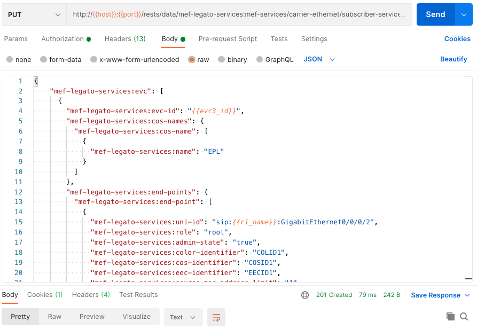
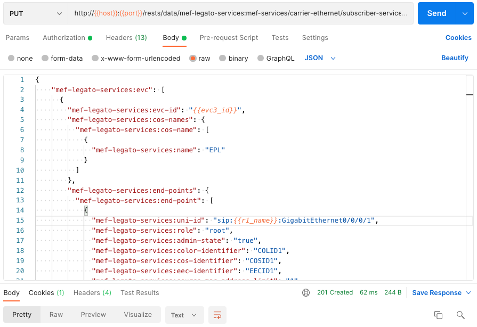
add OSPF and MPLS

diff --git a/README.md b/README.md
@@ -2,7 +2,7 @@
 
 ## Background
 
-A team from Xoriant, Cisco, and Amartus has been working with Ethernet Virtual Connection (EVC) based Ethernet Services based on the Lifecycle Service Orchestration (LSO) architecture defined by MEF Forum (MEF). The implementation of these services has been done within the OpenDaylight UniMgr open source project. These EVC services are offered by service providers to their clients. There are six EVC services standardized by MEF, namely Ethernet Private Line (EPL), Ethernet Virtual Private Line (EVPL), Ethernet Private LAN (EP-LAN), Ethernet Virtual Private LAN (EVP-LAN), Ethernet Private Tree (EP-Tree), and Ethernet Virtual Private Tree (EVP-Tree).
+A team from Xoriant, Cisco, and Amartus has been working with Ethernet Virtual Connection (EVC) based Ethernet Services based on the Lifecycle Service Orchestration (LSO) architecture defined by MEF Forum (MEF). The implementation of these services has been done within the OpenDaylight UniMgr open source project. These EVC services are offered by service providers to their subscribers. There are six EVC services standardized by MEF, namely Ethernet Private Line (EPL), Ethernet Virtual Private Line (EVPL), Ethernet Private LAN (EP-LAN), Ethernet Virtual Private LAN (EVP-LAN), Ethernet Private Tree (EP-Tree), and Ethernet Virtual Private Tree (EVP-Tree).
 
 Here is a brief explanation of these services. Please also refer to [MEF 6.3](https://www.mef.net/resources/mef-6-3-subscriber-ethernet-service-definitions/), [MEF 55.1](https://www.mef.net/resources/mef-55-1-lifecycle-service-orchestration-lso-reference-architecture-and-framework/), and [MEF 10.4](https://www.mef.net/resources/mef-10-4-subscriber-ethernet-services-attributes/) for additional information and the formal definition of each service.
 
@@ -59,9 +59,7 @@ $ mvn clean install
 
 ### Step 3: After a successful build, start unimgr
 
-The unimgr project builds a karaf distribution that has the umimgr component as a deployed
-feature. It is necessary to set a higher than default maximum heap size for the JVM when running
-karaf.
+The UniMgr project builds a Karaf distribution that has the `umimgr` component as a deployed feature. It is necessary to set a higher than default maximum heap size for the JVM when running Karaf.
 
 ```
 $ export JAVA_MAX_MEM=2g
@@ -84,14 +82,13 @@ opendaylight-user@root>feature:install odl-unimgr-cisco-xr-driver
 
 You can verify that OpenDaylight is running on your system with the UniMgr driver for Cisco XR devices installed and the UniMgr Legato API enabled by accessing the network topology API:
 
-<http://localhost:8181/rests/data/network-topology?content=nonconfig> (username: admin/ password: admin)
+<http://localhost:8181/rests/data/network-topology?content=nonconfig> (username: admin / password: admin)
 
 ![Network Topology](./images/network-topology.png)
 
 ### Step 6: Access your Cisco IOS XR devices
 
-The remainder of this tutorial assumes you are using the devices in the CiscoDevNet Sandbox for IOS XR Programmability and have established the VPN required to access the devices.
-If you are using your own devices, you will need to update the access information accordingly.
+The remainder of this tutorial assumes you are using the devices in the CiscoDevNet Sandbox for IOS XR Programmability and have established the VPN required to access the devices. If you are using your own devices, you will need to update the access information accordingly.
 
 In one terminal, access R1
 
@@ -109,57 +106,132 @@ Password: admin
 Show the interfaces and l2vpn configuration prior to configuring anything on the devices.
 
 ```
-$ show running-configuration interface
-$ show running-configuration l2vpn
+#show running-configuration interface
+#show running-configuration l2vpn
 ```
 
 ![Initial Configuration](./images/r1-r2-initial.png)
 
 ### Step 7: Configure network interfaces on XR devices
 
-On R1, configure a loopback interface and enable Gigabit Ethernet 0/0/0/2 as follows:
+The XR devices in the sandbox are connected back-to-back. We want to use these to demonstrate an EPL service offered by a service provider to a subscriber. To achieve this, we define Loopback0 on R1 and R2, use Gigabit Ethernet 0/0/0/0 on R1 and R2 to run OSPF and MPLS, reserve Gigabit Ethernet 0/0/0/1 on R1 and Gigabit Ethernet 0/0/0/2 on R2 to serve as UNIs for the EPL service, and shutdown all other interfaces.
+
+![Interfaces on R1 and R2](./images/r1-r2-interfaces.png)
+
+On R1, configure the interfaces as follows:
 
 ```
-RP/0/RP0/CPU0:r1#conf t              
-RP/0/RP0/CPU0:r1(config)#interface gigabitEthernet 0/0/0/2   
-RP/0/RP0/CPU0:r1(config-if)#no shutdown 
-RP/0/RP0/CPU0:r1(config-if)#commit
+RP/0/RP0/CPU0:r1#conf t 
 RP/0/RP0/CPU0:r1(config)#interface loopback0
 RP/0/RP0/CPU0:r1(config-if)#ipv4 address 100.100.100.100 255.255.255.255
+RP/0/RP0/CPU0:r1(config-if)#exit
+RP/0/RP0/CPU0:r1(config)#interface gigabitEthernet 0/0/0/0
+RP/0/RP0/CPU0:r1(config-if)#ipv4 address 10.20.20.1 255.255.255.0  
+RP/0/RP0/CPU0:r1(config-if)#no shutdown
+RP/0/RP0/CPU0:r1(config-if)#exit
+RP/0/RP0/CPU0:r1(config)#interface gigabitEthernet 0/0/0/1
+RP/0/RP0/CPU0:r1(config-if)#no shutdown
+RP/0/RP0/CPU0:r1(config-if)#exit
+RP/0/RP0/CPU0:r1(config)#interface gigabitEthernet 0/0/0/2
+RP/0/RP0/CPU0:r1(config-if)#shutdown
+RP/0/RP0/CPU0:r1(config-if)#exit
+RP/0/RP0/CPU0:r1(config)#interface gigabitEthernet 0/0/0/3
+RP/0/RP0/CPU0:r1(config-if)#shutdown
+RP/0/RP0/CPU0:r1(config-if)#exit
+RP/0/RP0/CPU0:r1(config)#interface gigabitEthernet 0/0/0/4
+RP/0/RP0/CPU0:r1(config-if)#shutdown
 RP/0/RP0/CPU0:r1(config-if)#commit
-RP/0/RP0/CPU0:r1(config-if)#end          
+RP/0/RP0/CPU0:r1(config-if)#end     
 ```
-On R2, configure a loopback interface and enable Gigabit Ethernet 0/0/0/2 as follows:
+On R2, configure the interfaces as follows:
 
 ```
-RP/0/RP0/CPU0:r2#conf t
-RP/0/RP0/CPU0:r2(config)#interface gigabitEthernet 0/0/0/2
-RP/0/RP0/CPU0:r2(config-if)#no shutdown 
-RP/0/RP0/CPU0:r2(config-if)#commit
-RP/0/RP0/CPU0:r2(config-if)#interface loopback0
+RP/0/RP0/CPU0:r2#conf t 
+RP/0/RP0/CPU0:r2(config)#interface loopback0
 RP/0/RP0/CPU0:r2(config-if)#ipv4 address 200.200.200.200 255.255.255.255
+RP/0/RP0/CPU0:r2(config-if)#exit
+RP/0/RP0/CPU0:r2(config)#interface gigabitEthernet 0/0/0/0
+RP/0/RP0/CPU0:r2(config-if)#ipv4 address 10.20.20.2 255.255.255.0  
+RP/0/RP0/CPU0:r2(config-if)#no shutdown
+RP/0/RP0/CPU0:r2(config-if)#exit
+RP/0/RP0/CPU0:r2(config)#interface gigabitEthernet 0/0/0/1
+RP/0/RP0/CPU0:r2(config-if)#shutdown
+RP/0/RP0/CPU0:r2(config-if)#exit
+RP/0/RP0/CPU0:r2(config)#interface gigabitEthernet 0/0/0/2
+RP/0/RP0/CPU0:r2(config-if)#no shutdown
+RP/0/RP0/CPU0:r2(config-if)#exit
+RP/0/RP0/CPU0:r2(config)#interface gigabitEthernet 0/0/0/3
+RP/0/RP0/CPU0:r2(config-if)#shutdown
+RP/0/RP0/CPU0:r2(config-if)#exit
+RP/0/RP0/CPU0:r2(config)#interface gigabitEthernet 0/0/0/4
+RP/0/RP0/CPU0:r2(config-if)#shutdown
 RP/0/RP0/CPU0:r2(config-if)#commit
 RP/0/RP0/CPU0:r2(config-if)#end
 ```
 
-Show the interfaces and l2vpn configuration after completing this configuration on the devices.
+Verify the interfaces after completing this configuration on R1 and R2.
 
 ```
-$ show running-configuration interface
-$ show running-configuration l2vpn
+#show ip int br
 ```
 
-![Loopback Interface Configuration](./images/r1-r2-loopback.png)
+![Loopback Interface Configuration](./images/r1-interface-config.png)
 
-Note, you will no longer see anything for GigabitEthernet 0/0/0/2 because its configuration is empty/default. You can verify the status of all the interfaces as follows:
+![Loopback Interface Configuration](./images/r2-interface-config.png)
+
+### Step 8: Configure OSPF and MPLS on R1 and R2
+
+On R1, configure OSPF and MPLS as follows:
 
 ```
-$ show interfaces brief
+RP/0/RP0/CPU0:r1#conf t 
+RP/0/RP0/CPU0:r1(config)#router ospf 1
+RP/0/RP0/CPU0:r1(config-ospf)#router-id 100.100.100.100
+RP/0/RP0/CPU0:r1(config-ospf)#area 0
+RP/0/RP0/CPU0:r1(config-ospf-ar)#interface loopback0
+RP/0/RP0/CPU0:r1(config-ospf-ar-if)#exit
+RP/0/RP0/CPU0:r1(config-ospf-ar)#interface gigabitEthernet 0/0/0/0
+RP/0/RP0/CPU0:r1(config-ospf-ar-if)#commit
+RP/0/RP0/CPU0:r1(config-ospf-ar-if)#end
+RP/0/RP0/CPU0:r1#conf t
+RP/0/RP0/CPU0:r1(config)#mpls ldp 
+RP/0/RP0/CPU0:r1(config-ldp)#router-id 100.100.100.100
+RP/0/RP0/CPU0:r1(config-ldp)#interface gigabitEthernet 0/0/0/0
+RP/0/RP0/CPU0:r1(config-ldp-if)#commit
+RP/0/RP0/CPU0:r1(config-ldp-if)#end
 ```
 
-![show interface brief](./images/show-interface-brief.png)
+On R2, configure OSPF and MPLS as follows:
 
-### Step 8: Connect to R1 and R2 using OpenDaylight’s RESTCONF API, per RFC 8040
+```
+RP/0/RP0/CPU0:r2#conf t 
+RP/0/RP0/CPU0:r2(config)#router ospf 1
+RP/0/RP0/CPU0:r2(config-ospf)#router-id 200.200.200.200
+RP/0/RP0/CPU0:r2(config-ospf)#area 0
+RP/0/RP0/CPU0:r2(config-ospf-ar)#interface loopback0
+RP/0/RP0/CPU0:r2(config-ospf-ar-if)#exit
+RP/0/RP0/CPU0:r2(config-ospf-ar)#interface gigabitEthernet 0/0/0/0
+RP/0/RP0/CPU0:r2(config-ospf-ar-if)#commit
+RP/0/RP0/CPU0:r2(config-ospf-ar-if)#end
+RP/0/RP0/CPU0:r2#conf t
+RP/0/RP0/CPU0:r2(config)#mpls ldp 
+RP/0/RP0/CPU0:r2(config-ldp)#router-id 200.200.200.200
+RP/0/RP0/CPU0:r2(config-ldp)#interface gigabitEthernet 0/0/0/0
+RP/0/RP0/CPU0:r2(config-ldp-if)#commit
+RP/0/RP0/CPU0:r2(config-ldp-if)#end
+```
+
+Verify the OSPF and MPLS configuration on R1 and R2.
+
+```
+#show running-configuration router ospf
+#show running-configuration mpls ldp
+```
+
+![OSPF and MPLS Configuration](./images/ospf-mpls.png)
+
+
+### Step 8: Connect to R1 and R2 using OpenDaylight’s RESTCONF API, per [RFC 8040](https://www.rfc-editor.org/info/rfc8040)
 
 All API calls are available as part of the Postman [environment](unimgr.postman_environment.json) and [collection](./unimgr.postman_collection.json).
 
@@ -213,19 +285,21 @@ Payload:
 
 ![Connect to R2](./images/put-r2.png)
 
-### Step 9: On mounting the devices successfully, each devices capabilities can be observed on network topology API
+### Step 10: Check for required capabilities
 
-<http://localhost:8181/rests/data/network-topology?content=nonconfig> (username: admin/ password: admin)
+After mounting the devices successfully, each devices capabilities can be observed via the network topology API.
+
+<http://localhost:8181/rests/data/network-topology?content=nonconfig> (username: admin / password: admin)
 
 ![Network Topology](./images/network-topology-r1-r2.png)
 
-This can also be observed using the equivalent API call via Postman. Note, that this, as with all Legato API calls, is an asynchronous operation. The response to the API call reflects the status of the change to the configuration database on OpenDaylight. It may take some time for this configuration to be successfully applied on the network devices to which OpenDaylight is connected. The following Postman request and the corresponding response are shown twice, once immediately after issuing the PUT requests to mount R1 and R2, and again 30 seconds later, after connection to each device and discovery of its capabilities has completed.
+The capabilities can also be observed using the equivalent API call via Postman. Note, that this, as with all Legato API calls, is an asynchronous operation. The response to the API call reflects the status of the change to the configuration database on OpenDaylight. It may take some time for this configuration to be successfully applied on the network devices to which OpenDaylight is connected. The following Postman request and the corresponding response are shown twice, once immediately after issuing the requests to mount R1 and R2, and again 30 seconds later, after connection to each device and discovery of its capabilities has completed.
 
 GET: http://{{host}}:{{port}}/rests/data/network-topology?content=nonconfig
 
 ![Network Topology via Postmand](./images/get-network-topology.png)
 
-The complete list of capabilities is very long and continues well beyond that shown in the screenshot. Unimgr’s cisco-xr-driver explicitly looks for 3 capabilities. If any mounted device doesn’t have these capabilities, the driver will not work appropriately.
+The complete list of capabilities is very long and continues well beyond that shown in the screenshot. UniMgr’s cisco-xr-driver explicitly looks for 3 capabilities. If any mounted device doesn’t have these capabilities, the driver will not work appropriately.
  
 - "capability": "(http://cisco.com/ns/yang/Cisco-IOS-XR-l2vpn-cfg?revision=2017-06-26)Cisco-IOS-XR-l2vpn-cfg"
 - "capability": "(http://cisco.com/ns/yang/Cisco-IOS-XR-ifmgr-cfg?revision=2017-09-07)Cisco-IOS-XR-ifmgr-cfg"
@@ -233,15 +307,15 @@ The complete list of capabilities is very long and continues well beyond that sh
 
 ![Find l2vpn configuration](./images/find-l2vpn-cfg.png)
 
-### Step 10:  Create a MEF EP-Line service
+### Step 11:  Create a MEF EPL service
 
-Create MEF services between endpoints using the Legato API. The following API call creates an EP-Line service between R1 and R2. Gigabit Ethernet 0/0/0/2 is used on both devices.
+MEF services can be created between endpoints using the Legato API. The following API call creates an EPL service between R1 and R2. Gigabit Ethernet 0/0/0/1 is used on R1, and Gigabit Ethernet 0/0/0/2 is used on R2.
 
 PUT: http://{{host}}:{{port}}/rests/data/mef-legato-services:mef-services/carrier-ethernet/subscriber-services/evc={{evc3_id}}
 
 Payload:
 ```
-{
+
     "mef-legato-services:evc": [
       {
         "mef-legato-services:evc-id": "{{evc3_id}}",
@@ -255,7 +329,7 @@ Payload:
         "mef-legato-services:end-points": {
           "mef-legato-services:end-point": [
             {
-              "mef-legato-services:uni-id": "sip:{{r1_name}}:GigabitEthernet0/0/0/2",
+              "mef-legato-services:uni-id": "sip:{{r1_name}}:GigabitEthernet0/0/0/1",
               "mef-legato-services:role": "root",
               "mef-legato-services:admin-state": "true",
               "mef-legato-services:color-identifier": "COLID1",
@@ -390,9 +464,9 @@ Payload:
 
 ![Create EP-Line Service](./images/put-epl.png)
 
-### Step 11: Verify configuration on R1 and R2
+### Step 12: Verify configuration on R1 and R2
 
-Show the interface and l2vpn configuration of both devices after the creation of the service. Note that Gigabit Ethernet 0/0/0/2 on each device now has an `mtu` and `l2transport` configured and that `l2vpn` is now configured on both devices as well.
+Show the interface and l2vpn configuration of both devices after the creation of the service. Note that Gigabit Ethernet 0/0/0/1 on R1 and Gigabit Ethernet 0/0/0/2 on R2 have an `mtu` and `l2transport` configured and that `l2vpn` is now configured on both devices as well.
 
 ```
 $ show running-configuration interface
@@ -401,7 +475,29 @@ $ show running-configuration l2vpn
 
 ![Verify configuration](./images/verify-cfg.png)
 
-## Connect with others working on Unimgr
+### Step 13: Verify the EPL service is up and traffic flows across it
 
-If you have any question or wish to contribute in UniMgr project please reach out to us at <unimgr-dev@lists.opendaylight.org>.
+Verify the status of the L2VPN configured for the EPL service, and ping the corresponding pseudowire to verify traffic across the EPL.
 
+On R1
+
+```
+#show l2vpn xconnect
+#ping mpls pseudowire 200.200.200.200 2004
+```
+
+![R1 ping via EPL](./images/r1-ping.png)
+
+
+On R2
+
+```
+#show l2vpn xconnect
+#ping mpls pseudowire 100.100.100.100 2004
+```
+
+![R2 ping via EPL](./images/r2-ping.png)
+
+## Connect with others working on UniMgr
+
+If you have any question or wish to contribute in UniMgr project, please reach out to us at <unimgr-dev@lists.opendaylight.org>.
